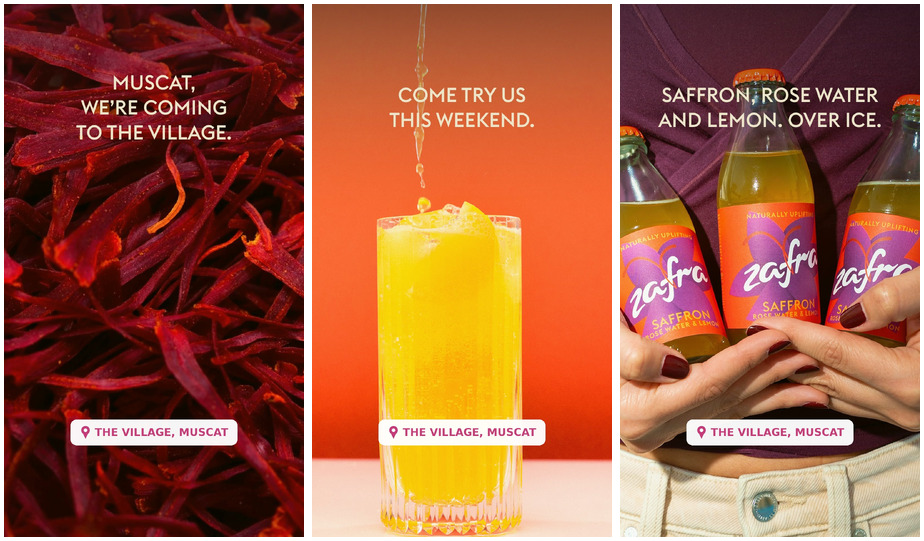
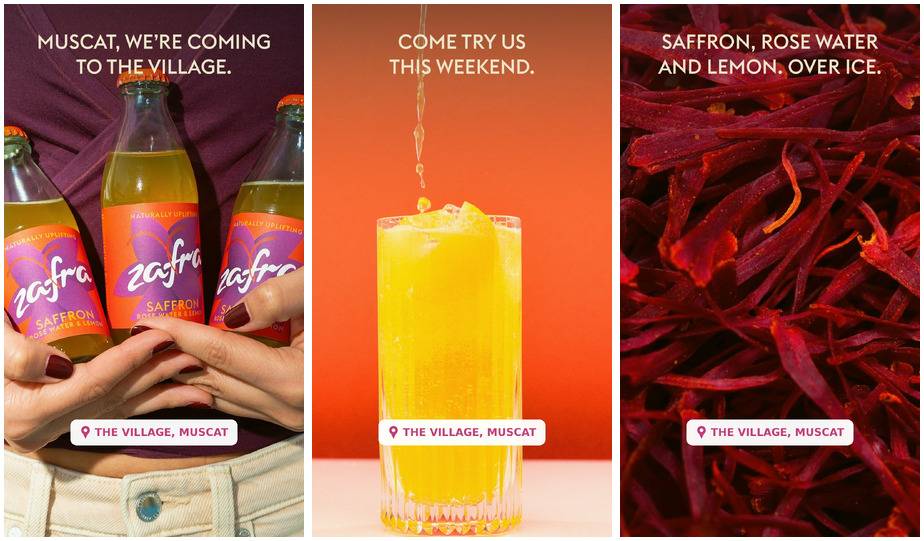
Example 04: bottles first
Claude-Session: https://claude.ai/code/session_01QXg58zv2dv92Xb4TMBN6aT

diff --git a/pitch/2026-11-25-zafra-call/examples/04-story-tasting-muscat/README.md b/pitch/2026-11-25-zafra-call/examples/04-story-tasting-muscat/README.md
@@ -4,9 +4,11 @@ Three frames, clear and to the point (Emi, 2026-11-25): call out Muscat first, t
 
 | Frame | Line | Media | Source |
 |---|---|---|---|
-| 1 | MUSCAT, WE'RE COMING TO THE VILLAGE. | Photo | finds/saffron-stills/still-01 (placeholder) |
+| 1 | MUSCAT, WE'RE COMING TO THE VILLAGE. | Photo | zaf-ig-027 three bottles held (Zafra's own) |
 | 2 | COME TRY US THIS WEEKEND. | Photo | zaf-photo-005 pour (Zafra's own) |
-| 3 | SAFFRON, ROSE WATER AND LEMON. OVER ICE. | Photo | zaf-ig-027 three bottles held (Zafra's own) |
+| 3 | SAFFRON, ROSE WATER AND LEMON. OVER ICE. | Photo | finds/saffron-stills/still-01 (placeholder) |
 
 Same line position, the same mock location sticker and the same soft top fade on every frame.
 To confirm before real use: dates, times, exact venue and address. Event details came from Emi and are not in `brand/facts.md` yet.
+
+Lines sit at 10% height so they clear the bottle caps on frame 1. For posting, check they clear Instagram's top bar (about 250 px).
